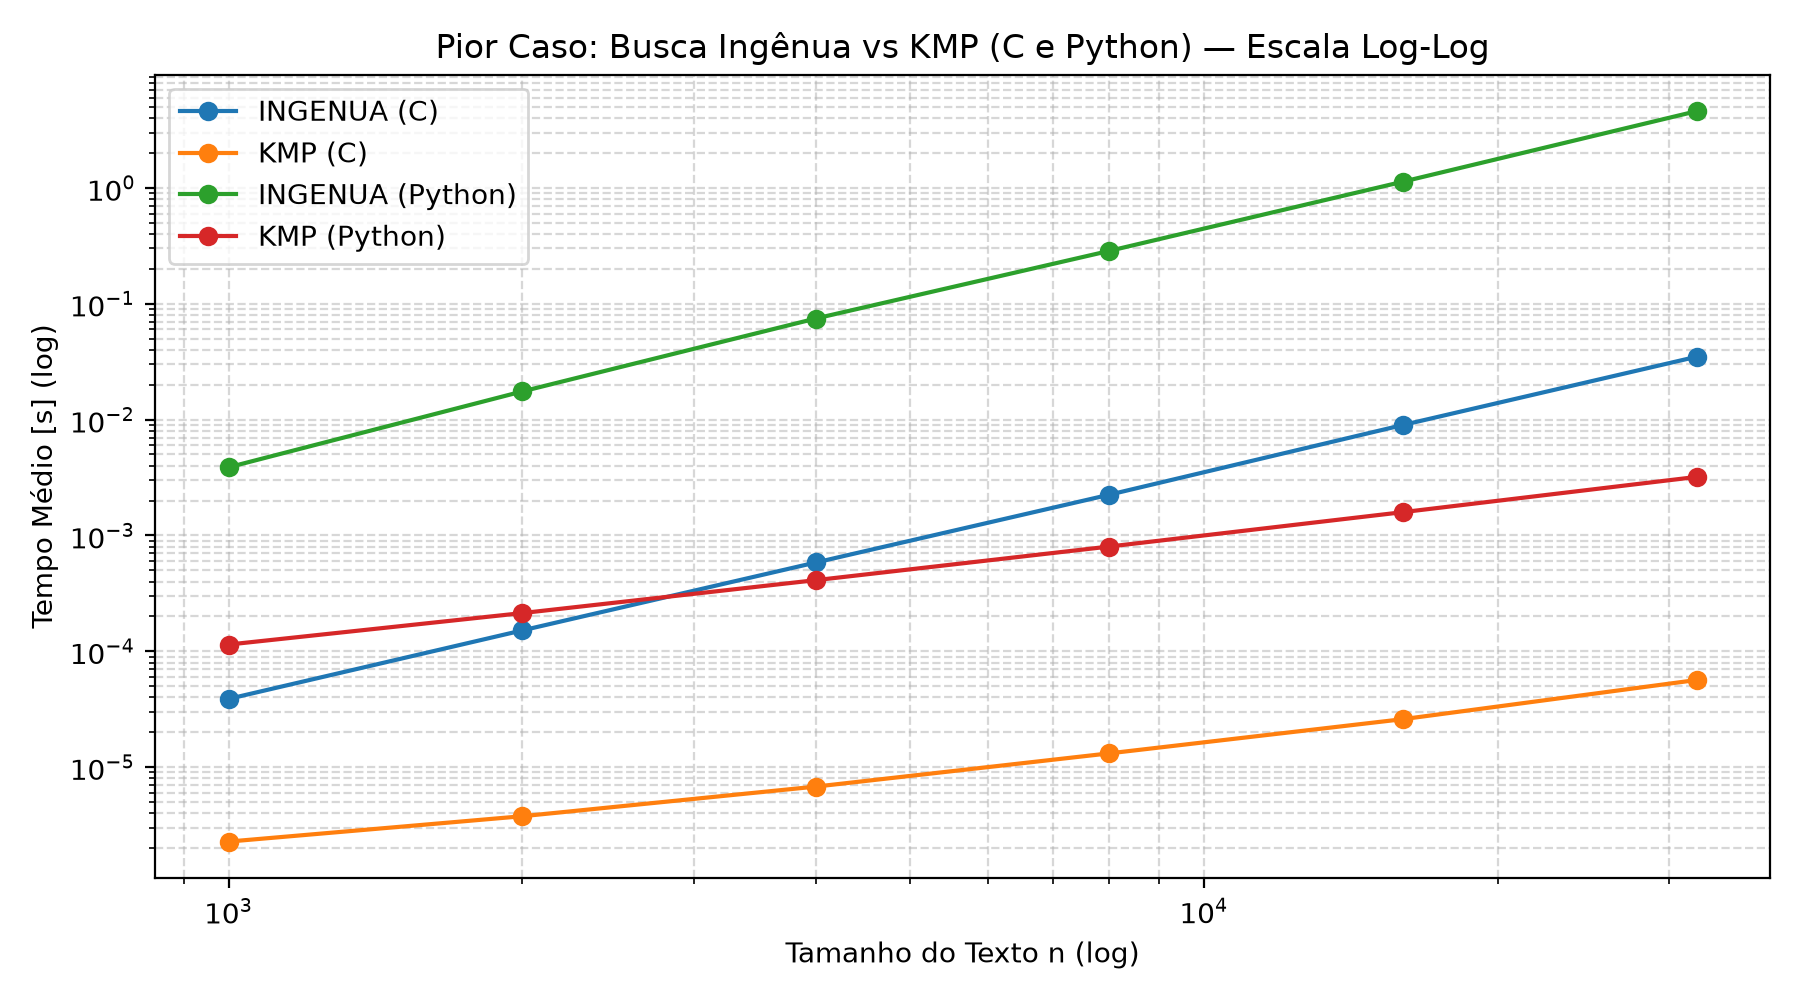
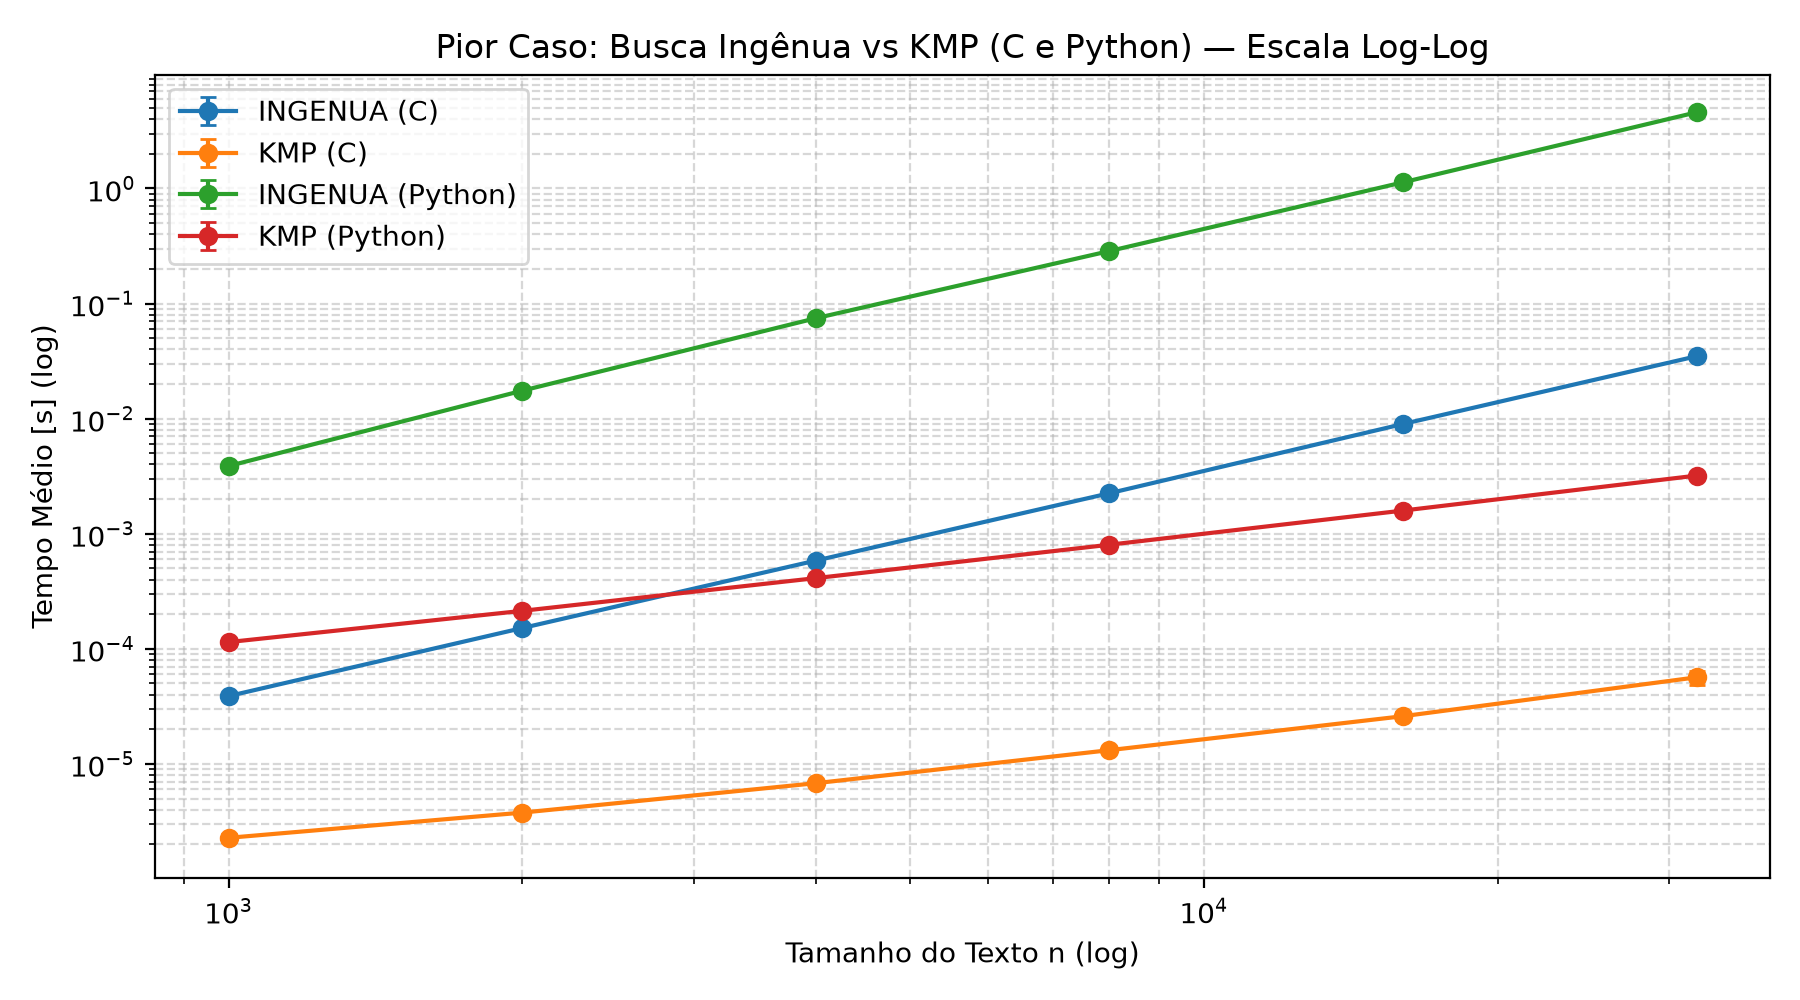
adição dos gráficos de teórico x medido para todos os algoritmos e de comparação entre linguagens

diff --git a/executar_experimentos.py b/executar_experimentos.py
@@ -3,6 +3,7 @@ import os
 import random
 import statistics
 import subprocess
+import sys
 import matplotlib.pyplot as plt
 
 # 6 tamanhos em escala geométrica de razão 2 (exigência do edital)
@@ -115,19 +116,50 @@ def rodar_testes_e_benchmark():
     return resultados
 
 
+def carregar_resultados_csv(caminho="resultados/benchmark.csv"):
+    """Lê um benchmark já salvo, para regenerar os gráficos sem rodar as medições de novo."""
+    with open(caminho, encoding="utf-8") as f:
+        return [
+            {
+                **r,
+                "n": int(r["n"]),
+                "m": int(r["m"]),
+                "media_s": float(r["media_s"]),
+                "desvio_s": float(r["desvio_s"]),
+                "ocorrencias": int(r["ocorrencias"]),
+            }
+            for r in csv.DictReader(f)
+        ]
+
+
+def filtrar(resultados, cenario, lang, alg):
+    dados = [
+        r for r in resultados
+        if r["cenario"] == cenario and r["linguagem"] == lang and r["algoritmo"] == alg
+    ]
+    return sorted(dados, key=lambda r: r["n"])
+
+
+# Função de custo teórica f(n, m) de cada algoritmo no pior caso
+CUSTO_TEORICO = {
+    "ingenua": ("(n - m + 1) · m", lambda n, m: (n - m + 1) * m),
+    "kmp": ("n + m", lambda n, m: n + m),
+}
+
+
 def gerar_graficos(resultados):
-    # Gráfico 1: Pior Caso (Ingênua vs KMP em C e Python) - Escala Log-Log
+    # Gráfico 1: Pior Caso (Ingênua vs KMP em C e Python) - Escala Log-Log, com desvio-padrão
     plt.figure(figsize=(9, 5))
     for lang in ["C", "Python"]:
         for alg in ["ingenua", "kmp"]:
-            dados = [
-                r for r in resultados
-                if r["cenario"] == "pior" and r["linguagem"] == lang and r["algoritmo"] == alg
-            ]
+            dados = filtrar(resultados, "pior", lang, alg)
             ns = [d["n"] for d in dados]
-            medias = [max(d["media_s"], 1e-7) for d in dados]
-            plt.loglog(ns, medias, marker="o", label=f"{alg.upper()} ({lang})")
+            medias = [d["media_s"] for d in dados]
+            desvios = [d["desvio_s"] for d in dados]
+            plt.errorbar(ns, medias, yerr=desvios, marker="o", capsize=3, label=f"{alg.upper()} ({lang})")
 
+    plt.xscale("log")
+    plt.yscale("log")
     plt.title("Pior Caso: Busca Ingênua vs KMP (C e Python) — Escala Log-Log")
     plt.xlabel("Tamanho do Texto n (log)")
     plt.ylabel("Tempo Médio [s] (log)")
@@ -141,10 +173,7 @@ def gerar_graficos(resultados):
     plt.figure(figsize=(9, 5))
     for cenario in ["melhor", "medio", "pior"]:
         for alg in ["ingenua", "kmp"]:
-            dados = [
-                r for r in resultados
-                if r["cenario"] == cenario and r["linguagem"] == "C" and r["algoritmo"] == alg
-            ]
+            dados = filtrar(resultados, cenario, "C", alg)
             ns = [d["n"] for d in dados]
             medias = [d["media_s"] for d in dados]
             estilo = "--" if alg == "ingenua" else "-"
@@ -159,28 +188,57 @@ def gerar_graficos(resultados):
     plt.savefig("resultados/grafico_cenarios_c.png", dpi=200)
     plt.close()
 
-    # Gráfico 3: Teórico x Medido (Razão T(n) / (n + m) para KMP em Python no Pior Caso)
-    dados_kmp_py = [
-        r for r in resultados
-        if r["cenario"] == "pior" and r["linguagem"] == "Python" and r["algoritmo"] == "kmp"
-    ]
-    ns = [d["n"] for d in dados_kmp_py]
-    razoes = [d["media_s"] / (d["n"] + d["m"]) * 1e6 for d in dados_kmp_py]  # microssegundos/op
+    # Gráfico 3: Teórico x Medido no Pior Caso — razão T(n) / f(n, m) para os 2 algoritmos nas 2 linguagens.
+    # Se f é a complexidade correta, a razão tende a uma constante (curva horizontal).
+    fig, eixos = plt.subplots(2, 2, figsize=(11, 7))
+    for i, alg in enumerate(["ingenua", "kmp"]):
+        nome_f, f = CUSTO_TEORICO[alg]
+        for j, lang in enumerate(["C", "Python"]):
+            dados = filtrar(resultados, "pior", lang, alg)
+            ns = [d["n"] for d in dados]
+            razoes = [d["media_s"] / f(d["n"], d["m"]) * 1e9 for d in dados]  # nanossegundos por operação
+            ax = eixos[i][j]
+            ax.plot(ns, razoes, marker="s", color="darkgreen" if alg == "kmp" else "darkred")
+            ax.set_xscale("log")
+            ax.set_ylim(0, max(razoes) * 1.3)
+            ax.set_title(f"{alg.upper()} ({lang}): T(n) / [{nome_f}]")
+            ax.set_xlabel("Tamanho do Texto n (log)")
+            ax.set_ylabel("ns por operação")
+            ax.grid(True, linestyle="--", alpha=0.5)
+    fig.suptitle("Teórico x Medido (Pior Caso): a razão T(n) / f(n) tende a uma constante")
+    fig.tight_layout()
+    fig.savefig("resultados/grafico_razao_teorico_medido.png", dpi=200)
+    plt.close(fig)
 
-    plt.figure(figsize=(9, 5))
-    plt.plot(ns, razoes, marker="s", color="darkgreen", label="T(n) / (n + m) [µs/op]")
-    plt.title("Validação Assintótica KMP (Python): Razão T(n) / (n + m) tende a constante")
-    plt.xlabel("Tamanho do Texto (n)")
-    plt.ylabel("Tempo por unidade (n + m) [microssegundos]")
-    plt.grid(True, linestyle="--", alpha=0.5)
-    plt.legend()
+    # Gráfico 4: Linguagem x Linguagem — quantas vezes Python é mais lento que C, por algoritmo e cenário
+    plt.figure(figsize=(11, 5))
+    for cenario in ["melhor", "medio", "pior"]:
+        for alg in ["ingenua", "kmp"]:
+            dados_c = filtrar(resultados, cenario, "C", alg)
+            dados_py = filtrar(resultados, cenario, "Python", alg)
+            ns = [d["n"] for d in dados_c]
+            fatores = [py["media_s"] / c["media_s"] for c, py in zip(dados_c, dados_py)]
+            estilo = "--" if alg == "ingenua" else "-"
+            plt.plot(ns, fatores, linestyle=estilo, marker="o", label=f"{alg.upper()} - {cenario}")
+
+    plt.xscale("log")
+    plt.yscale("log")
+    plt.title("Python x C: razão entre os tempos (T_Python / T_C)")
+    plt.xlabel("Tamanho do Texto n (log)")
+    plt.ylabel("Vezes que Python é mais lento (log)")
+    plt.grid(True, which="both", linestyle="--", alpha=0.5)
+    plt.legend(loc="center left", bbox_to_anchor=(1.01, 0.5))
     plt.tight_layout()
-    plt.savefig("resultados/grafico_razao_teorico_medido.png", dpi=200)
+    plt.savefig("resultados/grafico_python_vs_c.png", dpi=200)
     plt.close()
     print("Gráficos salvos em resultados/.")
 
 
 if __name__ == "__main__":
-    gerar_entradas()
-    dados = rodar_testes_e_benchmark()
-    gerar_graficos(dados)
+    # "python executar_experimentos.py --graficos" regenera só os gráficos a partir do benchmark.csv
+    if "--graficos" in sys.argv:
+        gerar_graficos(carregar_resultados_csv())
+    else:
+        gerar_entradas()
+        dados = rodar_testes_e_benchmark()
+        gerar_graficos(dados)

diff --git a/README.md b/README.md
@@ -39,7 +39,8 @@ Dado um texto $T$ de comprimento $n$ e um padrão $P$ de comprimento $m$ ($m \le
 │   ├── benchmark.csv            # Tempos médios e desvios-padrão de todas as execuções
 │   ├── grafico_pior_caso_loglog.png
 │   ├── grafico_cenarios_c.png
-│   └── grafico_razao_teorico_medido.png
+│   ├── grafico_razao_teorico_medido.png
+│   └── grafico_python_vs_c.png
 ├── testes/
 │   └── test_corretude.py        # Testes automatizados de corretude das 4 implementações
 ├── executar_experimentos.py     # Gera as entradas, roda os benchmarks, valida a corretude e plota os gráficos
@@ -95,6 +96,19 @@ O script:
 3. Verifica automaticamente que as quatro implementações retornam o mesmo número de ocorrências;
 4. Salva os dados em `resultados/benchmark.csv` e gera os gráficos em `resultados/`.
 
+Para regenerar apenas os gráficos a partir de um `benchmark.csv` já existente (sem rodar as medições de novo):
+
+```bash
+python executar_experimentos.py --graficos
+```
+
+| Gráfico | Comparação |
+| :--- | :--- |
+| `grafico_pior_caso_loglog.png` | Algoritmo × algoritmo e linguagem × linguagem no pior caso (log-log, com desvio-padrão) |
+| `grafico_cenarios_c.png` | Melhor, médio e pior caso dos dois algoritmos em C |
+| `grafico_razao_teorico_medido.png` | Teórico × medido: razão $T(n)/f(n)$ para os 2 algoritmos nas 2 linguagens |
+| `grafico_python_vs_c.png` | Linguagem × linguagem: quantas vezes Python é mais lento que C |
+
 ---
 
 ## 📈 Resultados Experimentais
@@ -111,7 +125,9 @@ Tempos médios de 15 execuções no **pior caso** ($T = \text{"A"}^n$, $P = \tex
 | $32.000$ | `0.034851` | `0.000057` | `4.587982` | `0.003200` |
 
 * Na Busca Ingênua, tanto em C quanto em Python, dobrar $n$ (e, consequentemente, $m$) multiplica o tempo por aproximadamente $4$, o comportamento quadrático esperado de $O(n \cdot m)$ com $m \propto n$.
-* No KMP, dobrar $n$ multiplica o tempo por aproximadamente $2$, o crescimento linear esperado de $\Theta(n + m)$; em Python, a razão $T(n)/(n+m)$ se mantém aproximadamente constante (ver `grafico_razao_teorico_medido.png`).
+* No KMP, dobrar $n$ multiplica o tempo por aproximadamente $2$, o crescimento linear esperado de $\Theta(n + m)$.
+* **Teórico × medido** (`grafico_razao_teorico_medido.png`): no pior caso, a razão $T(n)/[(n-m+1)\cdot m]$ da Busca Ingênua fica praticamente constante (≈ 0,21–0,24 ns por comparação em C e ≈ 24–29 ns em Python), assim como a razão $T(n)/(n+m)$ do KMP (≈ 1,4–1,9 ns em C e ≈ 83–95 ns em Python), confirmando as complexidades teóricas. As pequenas oscilações nos menores $n$ vêm de custos fixos que pesam mais em execuções curtas.
+* **Python × C** (`grafico_python_vs_c.png`): Python é de ~13× a ~75× mais lento que C no KMP e de ~22× a ~190× mais lento na Busca Ingênua. A diferença de linguagem altera apenas a constante multiplicativa; a ordem de crescimento é a mesma nas duas.
 * Nos cenários de melhor caso e caso médio, os dois algoritmos ficam na mesma ordem de grandeza, já que as falhas ocorrem logo nos primeiros caracteres.
 * Os tempos em C são medidos com um relógio de alta precisão (`QueryPerformanceCounter` no Windows, `clock_gettime` no Linux/macOS).
 
